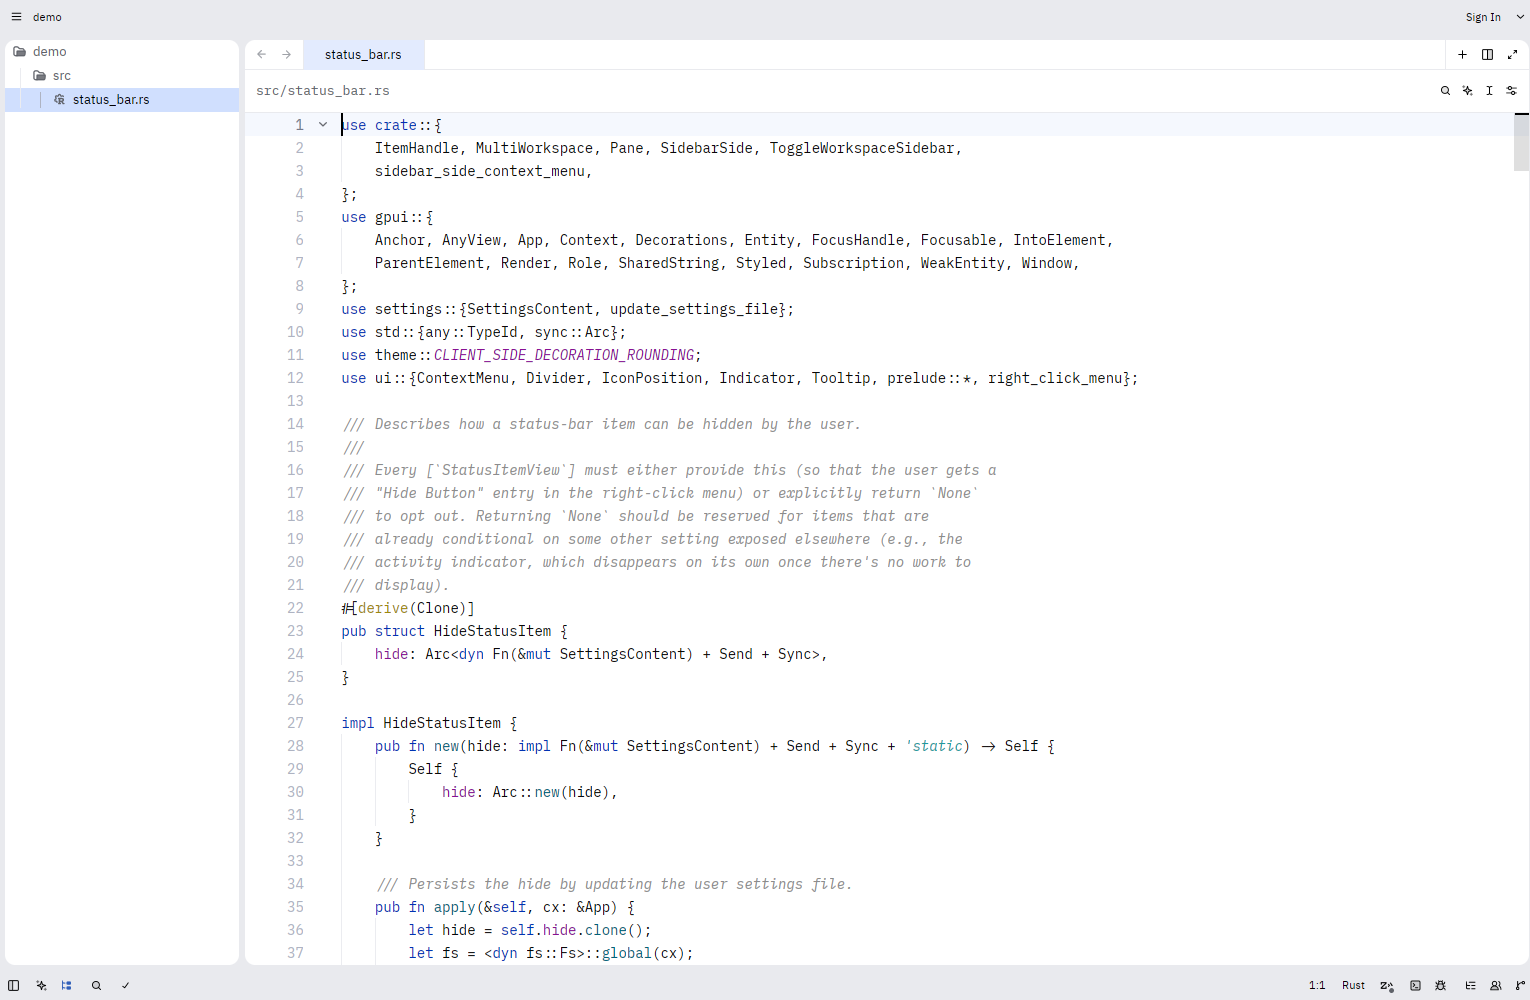
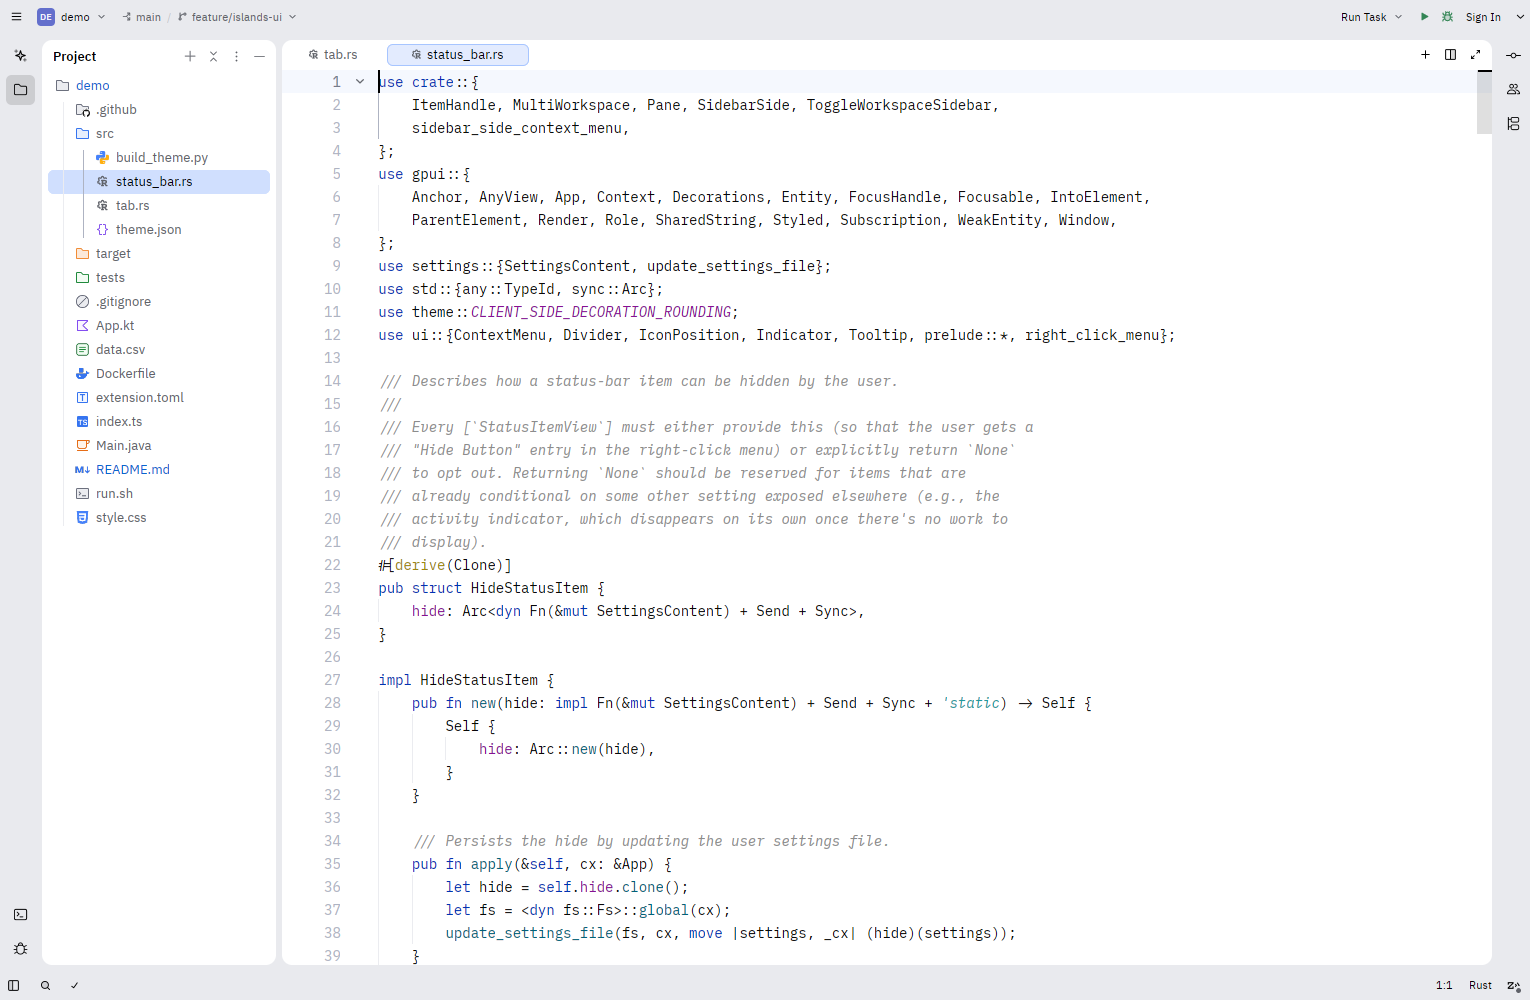
Add light screenshot and IDEA-like toolbar settings
Claude-Session: https://claude.ai/code/session_01BnQ6HuAUheDSWa9N9Mwti8

diff --git a/README.md b/README.md
@@ -16,6 +16,8 @@ tokens by `scripts/build_theme.py`. See [NOTICE](NOTICE) for attribution.
 
 ![Islands UI Dark with the islands layout](screenshots/islands-dark.png)
 
+![Islands UI Light with the islands layout](screenshots/islands-light.png)
+
 ## Install (dev extension)
 
 1. Clone this repository.
@@ -43,6 +45,7 @@ Add to your Zed `settings.json`:
   "buffer_font_size": 13,
   "buffer_line_height": { "custom": 1.4 },
   "tab_bar": { "show_nav_history_buttons": false },
+  "toolbar": { "breadcrumbs": false, "quick_actions": false },
   "tabs": { "file_icons": true, "git_status": true },
   "project_panel": { "indent_size": 16 },
   "scrollbar": { "show": "auto" }
@@ -62,7 +65,8 @@ the editor and docks as rounded islands, editor tabs as pills, and project
 panel rows as inset rounded highlights, and moves panel toggles into IDEA-style
 tool window stripes along the window edges. The title bar gets IDEA-style project,
 branch and run widgets, and each docked panel gets a header row with its name,
-its actions, an options menu and a hide button. Enable it with:
+its actions, an options menu and a hide button. Stripes and headers use IDEA's
+tool window icons. Enable it with:
 
 ```jsonc
 "islands": { "enabled": true, "gap": 6, "corner_radius": 10, "tool_window_stripes": true }
